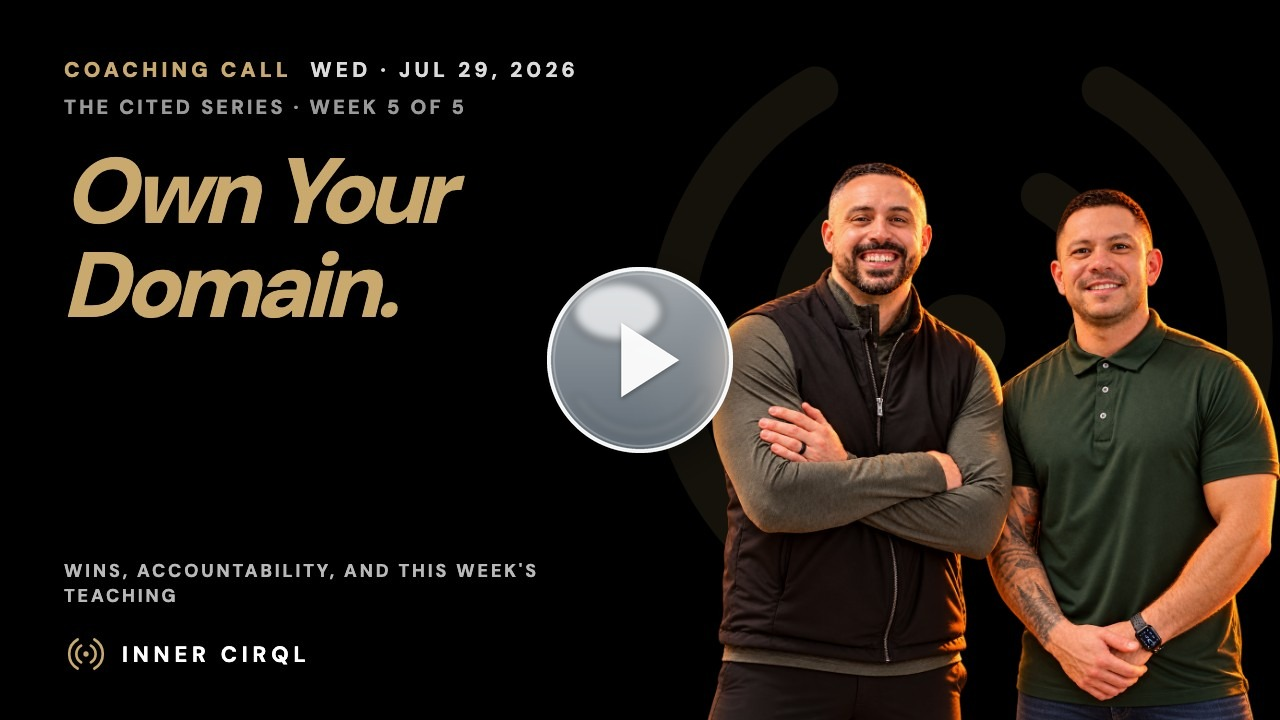
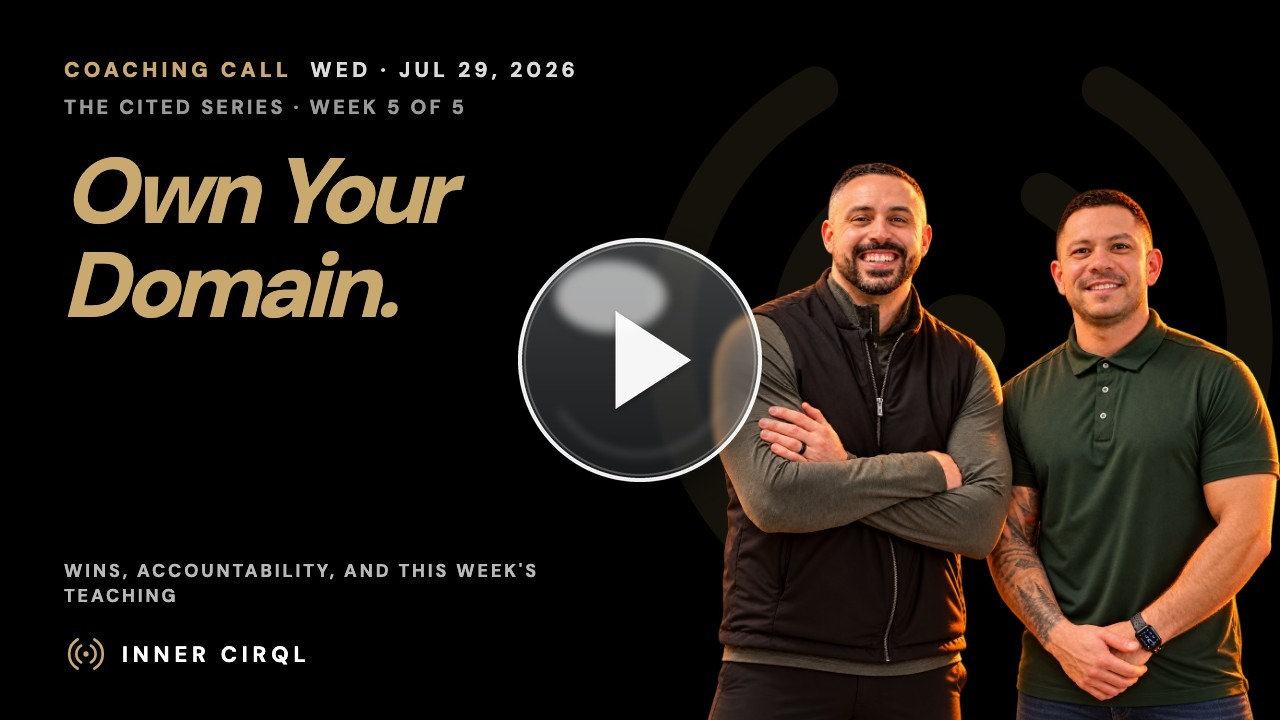
Training: retitle Jul 29 coaching call (The CITED Series · Week 5 · Domain.) + thumbnail

Changed region(s): [[0.4062, 0.3056, 0.5938, 0.6722]]

diff --git a/training/index.html b/training/index.html
@@ -94,6 +94,26 @@ window.LIBRARY = {
   ],
   "items": [
     {
+      "id": "v-2026-07-29",
+      "date": "2026-07-29",
+      "dateLabel": "July 29, 2026",
+      "series": "cited",
+      "week": 5,
+      "name": "Domain.",
+      "title": "The CITED Series · Week 5 · Domain.",
+      "headline": [
+        "Own Your",
+        "Domain."
+      ],
+      "sub": "The CITED Series · Week 5 of 5",
+      "desc": "The CITED Series, Week 5: Domain: the finale. Your personal landing page, the one source you actually own. Wins, accountability, and the teaching segment, edited replay.",
+      "href": "https://coach.theinnercirql.com/2026-07-29/",
+      "pdf": null,
+      "slides": null,
+      "embed": "https://www.youtube.com/embed/4ZNhl1TQDds?rel=0&modestbranding=1",
+      "thumb": "/assets/thumbs/jul-29-call.jpg?v=29920146"
+    },
+    {
       "id": "v-2026-07-22",
       "date": "2026-07-22",
       "dateLabel": "July 22, 2026",
@@ -532,26 +552,6 @@ window.LIBRARY = {
       "slides": null,
       "embed": "https://www.youtube.com/embed/PxzcgP3n0Ao?rel=0&modestbranding=1",
       "thumb": "/assets/thumbs/aug-5-call.jpg?v=29920125"
-    },
-    {
-      "id": "v-2026-07-29",
-      "date": "2026-07-29",
-      "dateLabel": "July 29, 2026",
-      "series": "cited",
-      "week": 5,
-      "name": "Domain.",
-      "title": "The CITED Series · Week 5 · Domain.",
-      "headline": [
-        "Own Your",
-        "Domain."
-      ],
-      "sub": "The CITED Series · Week 5 of 5",
-      "desc": "The CITED Series, Week 5: Domain: the finale. Your personal landing page, the one source you actually own. Wins, accountability, and the teaching segment, edited replay.",
-      "href": "https://coach.theinnercirql.com/2026-07-29/",
-      "pdf": null,
-      "slides": null,
-      "embed": "https://www.youtube.com/embed/4ZNhl1TQDds?rel=0&modestbranding=1",
-      "thumb": "/assets/thumbs/jul-29-call.jpg?v=29920125"
     },
     {
       "id": "t-become-a-listing-magnet",
